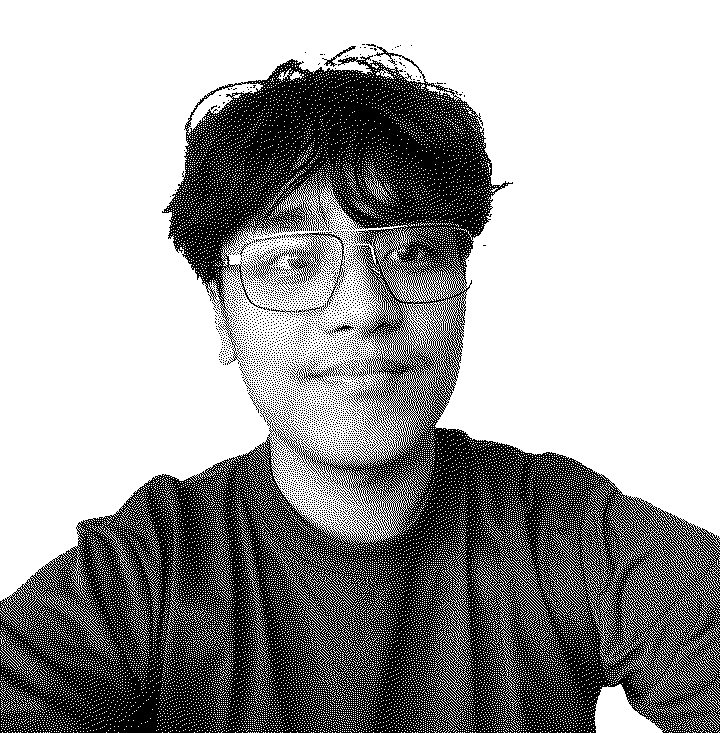
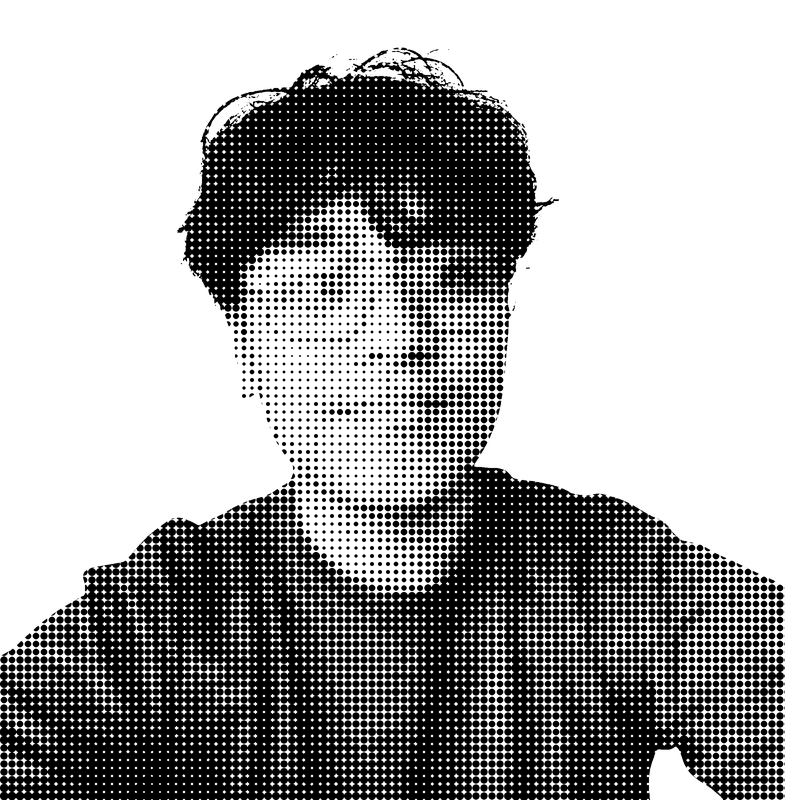
Switch to a proper circular halftone (bigger, deliberate dots)
Floyd-Steinberg dithering doesn't give control over dot size — it was
either too fine (invisible/smoothed away at display size) or, at low
source resolution, just looked like coarse single-pixel noise. Built an
actual cell-based circular halftone instead (8px cells, dot radius
scaled by local brightness, smooth anti-aliased edges via 3x supersample
+ Lanczos downsample), with a lighter contrast curve so facial detail
survives instead of crushing into solid black. Reads as deliberate,
bold dots at normal size — no zooming needed, no browser-smoothing
workarounds needed.

Changed region(s): [[0.0, 0.06, 1.0, 1.0]]

diff --git a/components/sections/Hero.tsx b/components/sections/Hero.tsx
@@ -121,7 +121,7 @@ export function Hero({ id }: HeroProps) {
 
           {/* Portrait, nudged up a little so it hangs level with the intro */}
           <aside style={delay(300)} className="animate-rise-in col-span-12 lg:col-span-5 lg:-mt-12">
-            <div className="relative mx-auto aspect-[720/733] w-full max-w-[360px] overflow-hidden">
+            <div className="relative mx-auto aspect-[785/800] w-full max-w-[360px] overflow-hidden">
               {profile.photo && (
                 <Image
                   src={profile.photo}
@@ -130,11 +130,10 @@ export function Hero({ id }: HeroProps) {
                   sizes="360px"
                   priority
                   draggable={false}
-                  // Dithered halftone art: skip Next's optimizer (it resizes with smooth
-                  // resampling) and force crisp scaling so the browser doesn't blur the
-                  // dot pattern back into flat gray at display size.
+                  // Halftone art with smooth anti-aliased dots (not raw per-pixel
+                  // dithering): skip Next's optimizer so it isn't re-resized/recompressed,
+                  // but let the browser scale it normally so the dot edges stay clean.
                   unoptimized
-                  style={{ imageRendering: 'pixelated' }}
                   className="object-cover"
                 />
               )}
